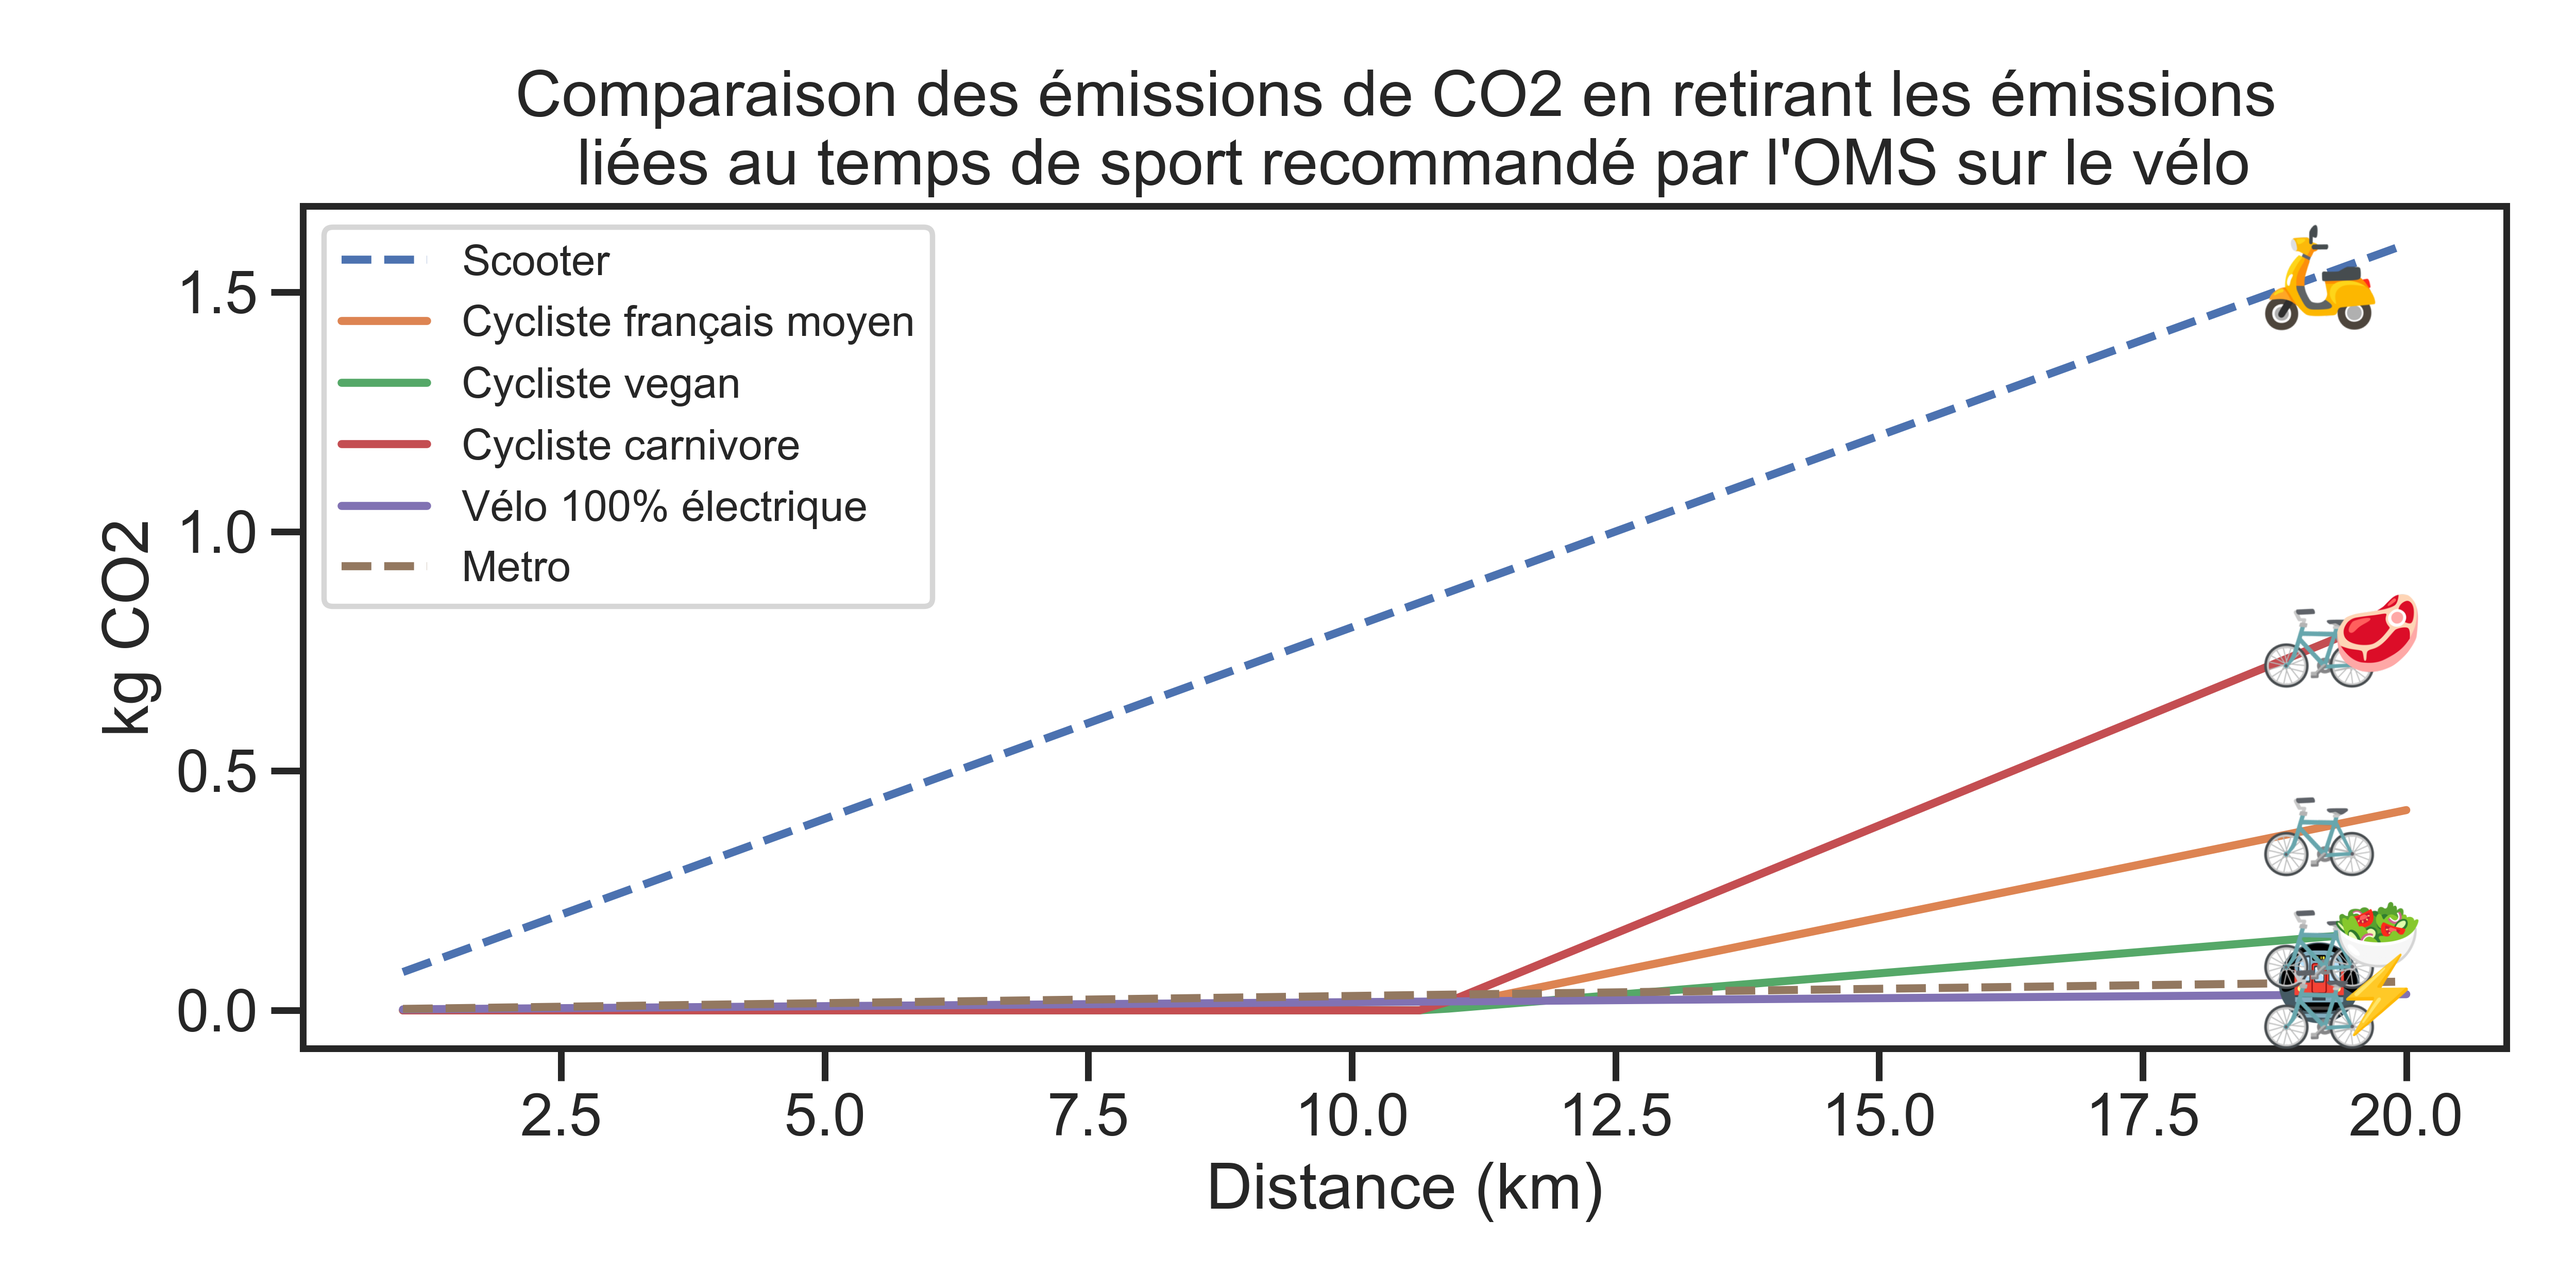
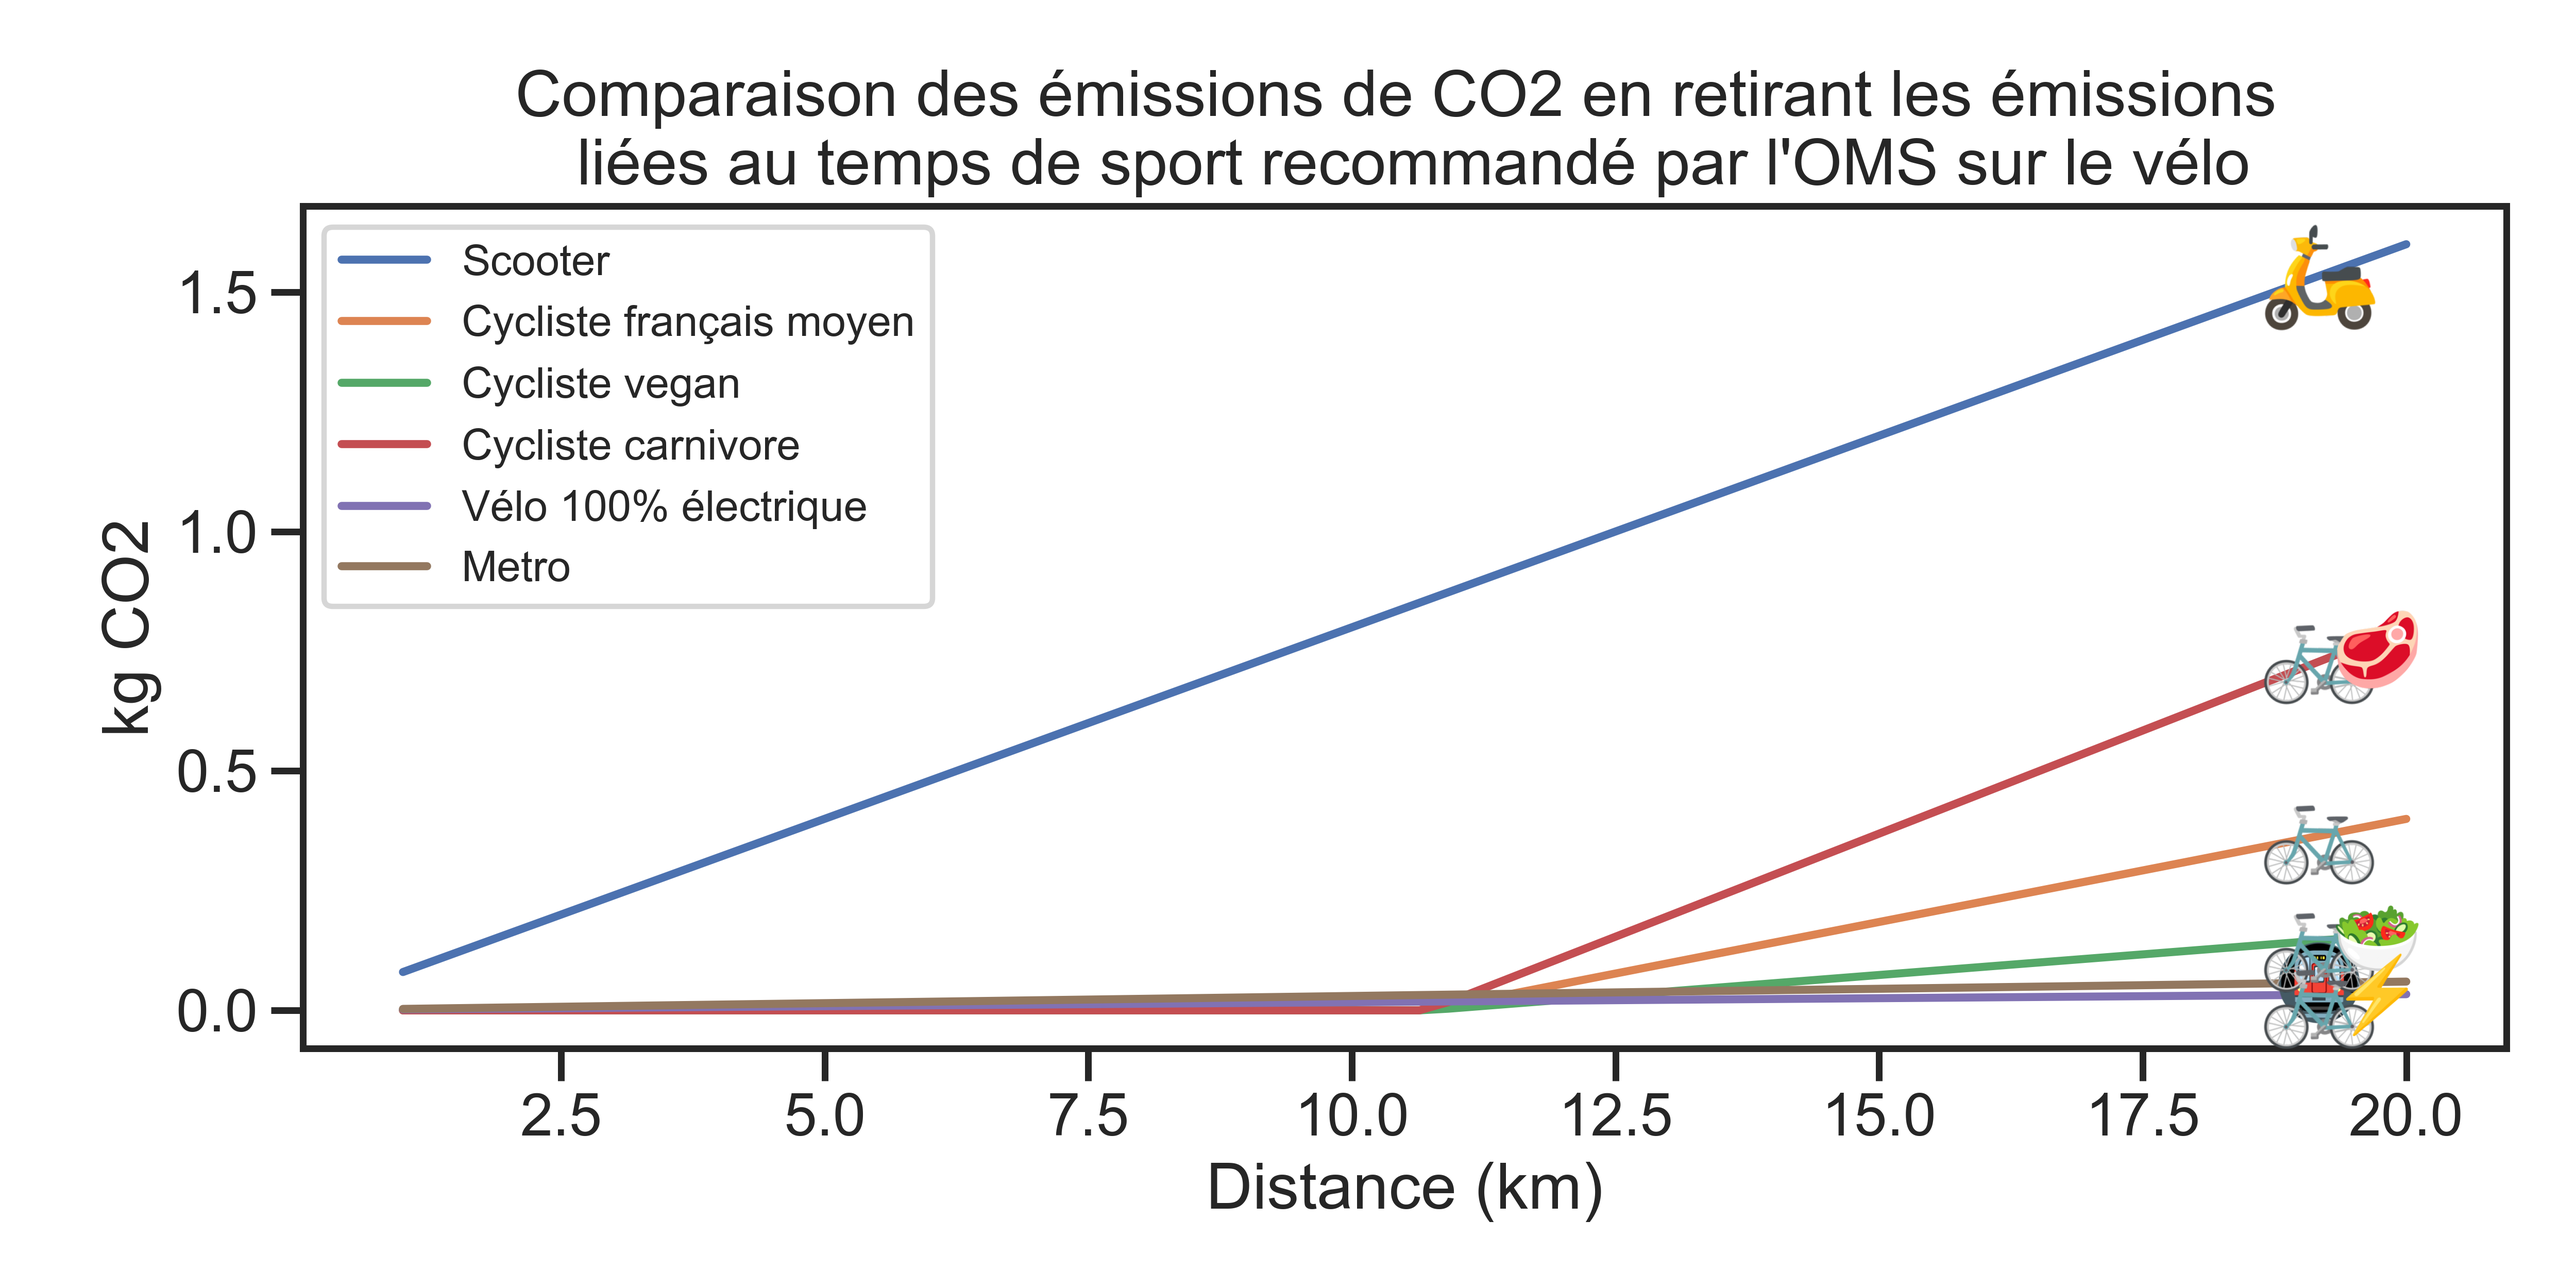
udpate

diff --git a/CO2_distance_sans_emission_sport.py b/CO2_distance_sans_emission_sport.py
@@ -78,13 +78,13 @@ l_kg_metro = 0.003 * l_L_km
 
 def plot_all(y_scale = "linear"):
     fig, ax = plt.subplots(figsize=(10, 5))
-    #plt.plot(l_L_km, l_kg_auto , "--", label = "Voiture")
-    plt.plot(l_L_km, l_kg_moto, "--", label = "Scooter")
+    #plt.plot(l_L_km, l_kg_auto , label = "Voiture")
+    plt.plot(l_L_km, l_kg_moto, label = "Scooter")
     plt.plot(l_L_km, l_kg_C02_bike_human, label = "Cycliste français moyen")
     plt.plot(l_L_km, l_kg_C02_bike_human_vegan, label = "Cycliste vegan")
     plt.plot(l_L_km, l_kg_C02_bike_human_boeuf, label = "Cycliste carnivore")
     plt.plot(l_L_km, l_kg_C02_bike_electrique, label = "Vélo 100% électrique")
-    plt.plot(l_L_km, l_kg_metro, "--", label = "Metro")
+    plt.plot(l_L_km, l_kg_metro, label = "Metro")
     plt.xlabel("Distance (km)")
     plt.ylabel("kg CO2")
     plt.yscale(y_scale)

diff --git a/README.md b/README.md
@@ -40,7 +40,7 @@ Electricite_kgC02_jool = 0.1 / (1000 * 60 * 60)  # Electricité francaise kgC02/
 ## Simulation MET avec ce modèle
 ![plot](./results/MET_linear.png)
 
-Il semble y avoir un accord entre ce modèle est une donnée de https://fr.wikipedia.org/wiki/%C3%89quivalent_m%C3%A9tabolique. Avec ce modèle, on obtient un MET de 5 pour 20 km/h. Pour obtenir un MET de 8 à 20 km/h, il faudrait avoir une pente de 1% (soit 100m de dénivelé sur 10km).
+Ce modèle semble cohérent avec une donnée de https://fr.wikipedia.org/wiki/%C3%89quivalent_m%C3%A9tabolique. Avec celui, on obtient un MET de 5 pour 20 km/h. Pour obtenir un MET de 8 à 20 km/h, il faudrait avoir une pente de 1% (soit 100m de dénivelé sur 10km).
 
 ## Comparaison des émissions de CO2 par km pour différents moyens de transport
 
@@ -48,5 +48,7 @@ Il semble y avoir un accord entre ce modèle est une donnée de https://fr.wikip
 
 
 ## Comparaison des émissions de CO2 en retirant les émissions \n liées au temps de sport recommandé par l'OMS sur le vélo
+L'OMS recommande de faire entre 150-300 minutes de sport à intensité modéré par semaine (https://www.who.int/news-room/fact-sheets/detail/physical-activity). Ce qui nous donne, en moyenne, 225/7 = 32 minutes de sport par jours pour être en bonne santé. En supposant qu'un cycliste ne fait pas de sport en plus que lors de ses déplacements, on peut enlever le C02 correspondant à ses 32 premières minutes de trajet. Donc pour un cycliste roulant à 20km/h, nous obtenons :
+
 
 ![plot](./results/Emmission_C02_distance_avec_sport_OMS_linear.png)
